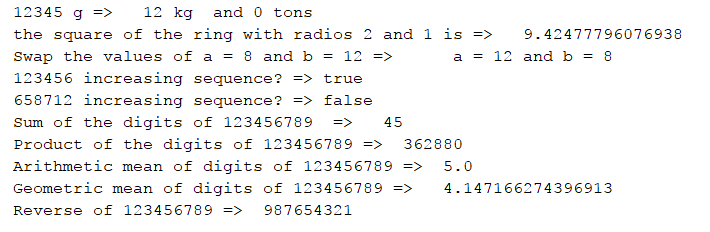
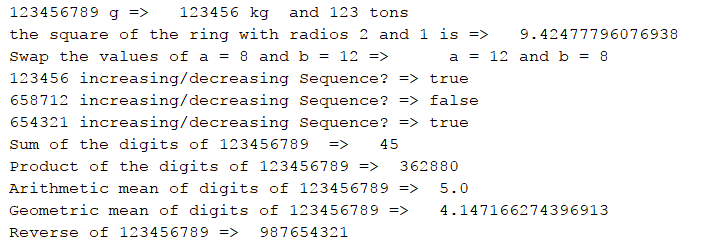
add corrected TASK1

Changed region(s): [[0.0, 0.0905, 0.9886, 0.9655], [0.0, 0.0, 0.5991, 0.0905], [0.6291, 0.181, 0.8688, 0.2716]]

diff --git a/TASK1/Main.java b/TASK1/Main.java
@@ -31,6 +31,14 @@ public class Main {
         return true;
     }
 
+    private static boolean decreasingSequenceNumber(int number) {
+        return increasingSequenceNumber(reverse(number));
+    }
+
+    private static boolean increasingDecreasingSequenceNumber(int number){
+        return increasingSequenceNumber(number)||decreasingSequenceNumber(number);
+    }
+
     private static int sumDigits(int number) {
         int sum = 0;
         while (number % 10 != 0) {
@@ -78,14 +86,15 @@ public class Main {
     }
 
     public static void main(String[] args) {
-        System.out.print(12345 + " g =>   ");
-        System.out.println(dinosaurWeightKilogram(12345) + " kg  and " + dinosaurWeightTon(12345) + " tons");
+        System.out.print(123456789 + " g =>   ");
+        System.out.println(dinosaurWeightKilogram(123456789) + " kg  and " + dinosaurWeightTon(123456789) + " tons");
         System.out.print("the square of the ring with radios 2 and 1 is =>   ");
         System.out.println(ringSquare(2, 1));
         System.out.print("Swap the values of a = 8 and b = 12 =>      ");
         swap(8, 12);
-        System.out.println("123456 increasing sequence? => " + increasingSequenceNumber(123456));
-        System.out.println("658712 increasing sequence? => " + increasingSequenceNumber(658712));
+        System.out.println("123456 increasing/decreasing Sequence? => " + increasingDecreasingSequenceNumber(123456));
+        System.out.println("658712 increasing/decreasing Sequence? => " + increasingDecreasingSequenceNumber(658712));
+        System.out.println("654321 increasing/decreasing Sequence? => " + increasingDecreasingSequenceNumber(654321));
         System.out.println("Sum of the digits of 123456789  =>   " + sumDigits(123456789));
         System.out.println("Product of the digits of 123456789 =>  " + productDigits(123456789));
         System.out.println("Arithmetic mean of digits of 123456789 =>  " + ArithmeticMeanDigits(123456789));
